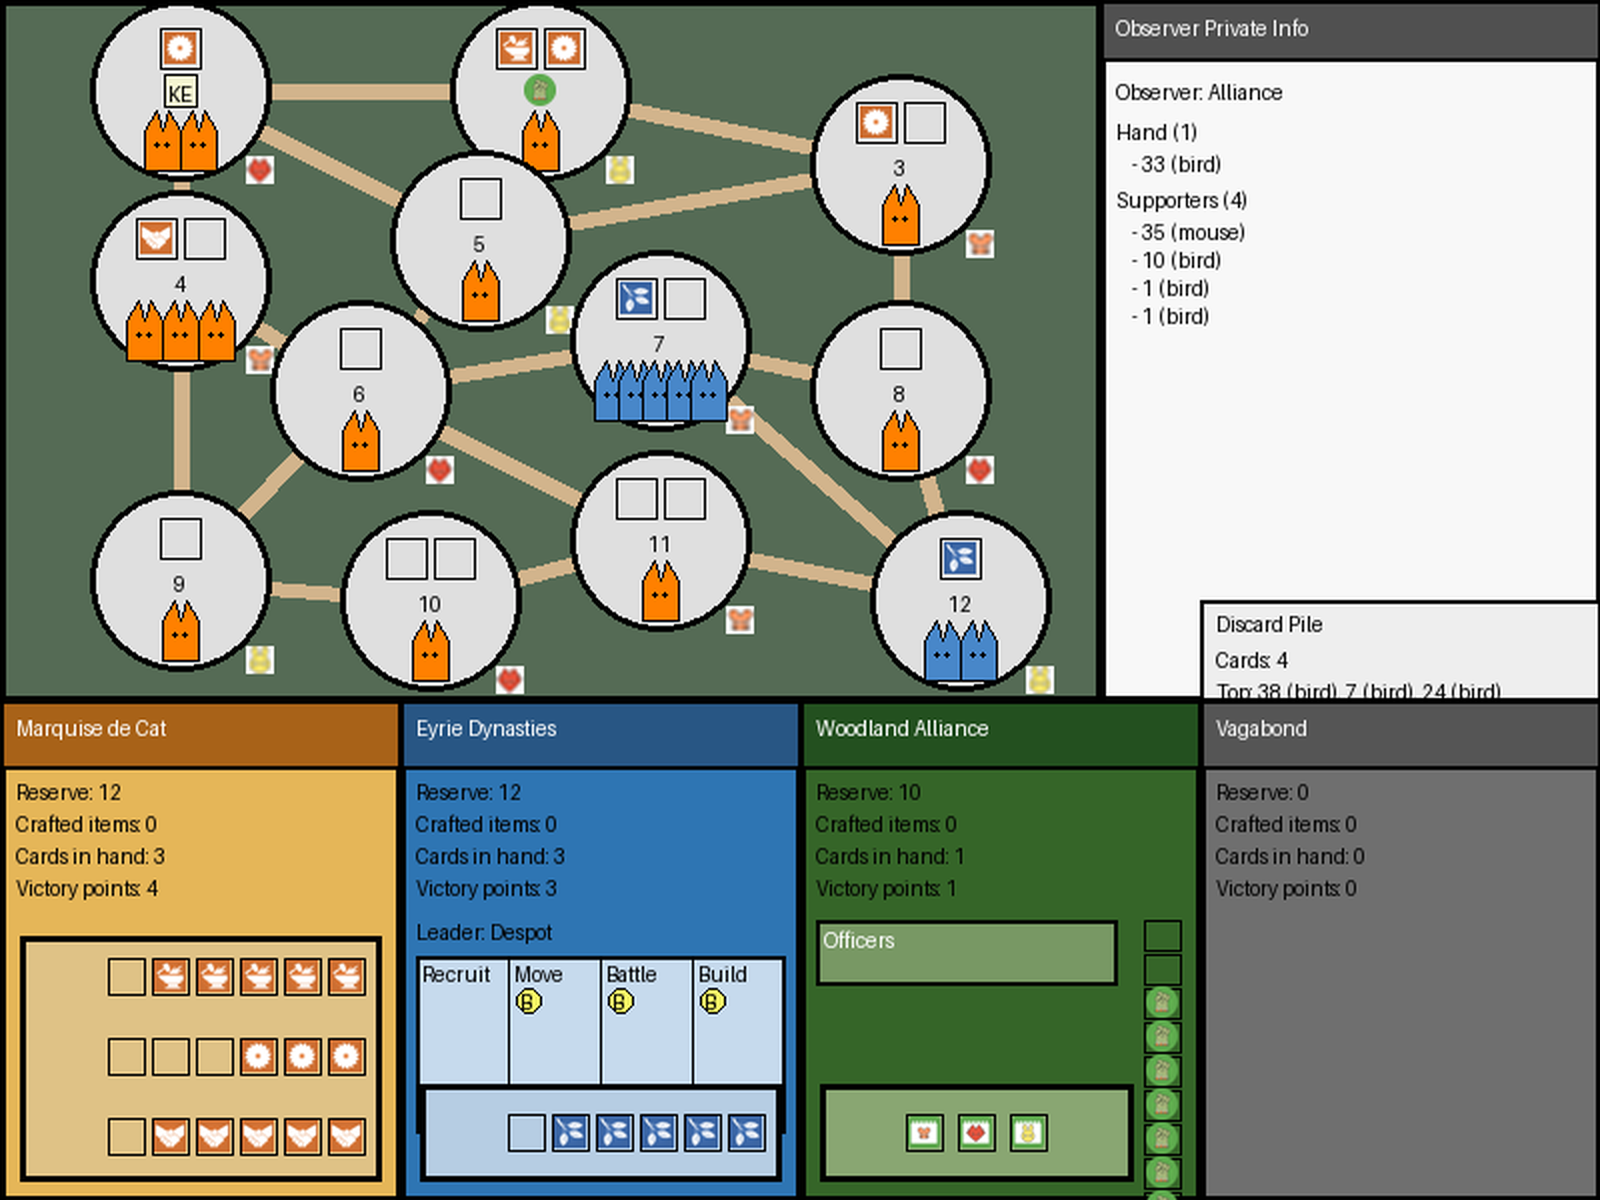
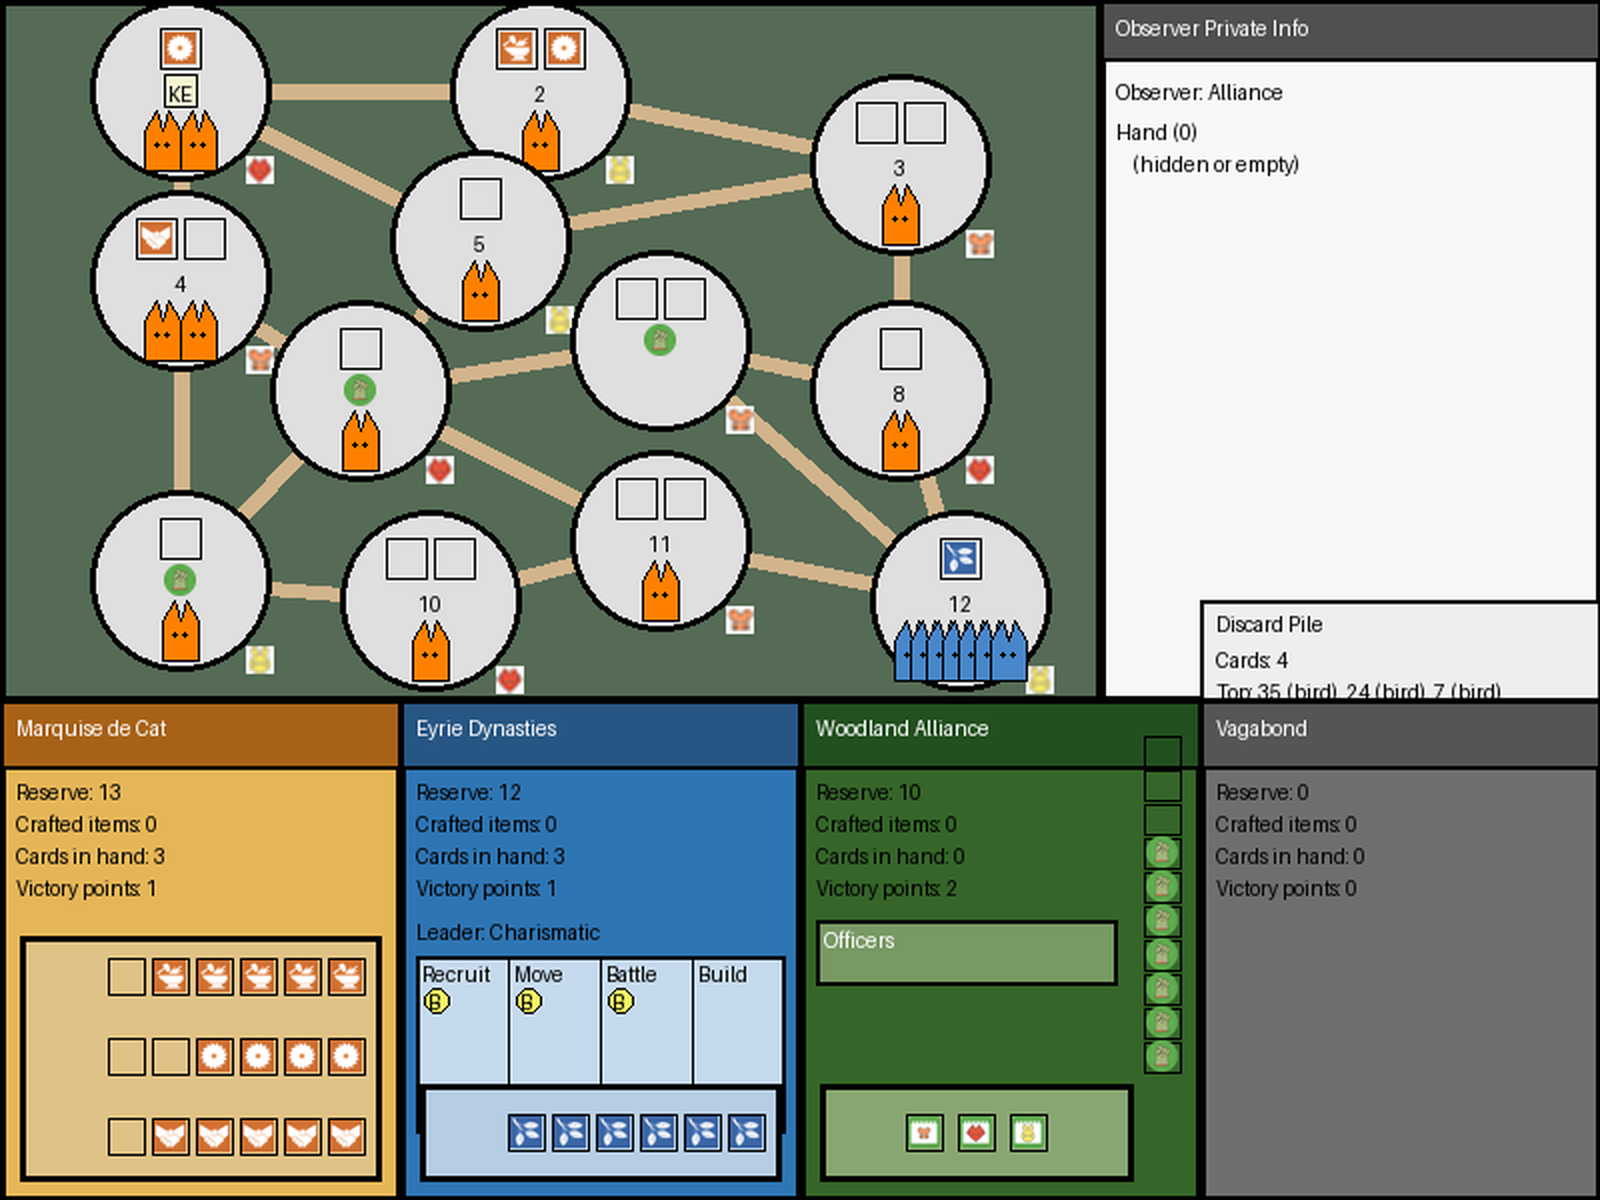
Game testing

diff --git a/game_tester.py b/game_tester.py
@@ -6,86 +6,22 @@ from root_engine.engine import RootEngine
 from root_engine.enums import Faction
 from state_renderer.render import state_renderer
 
-engine = RootEngine(seed=7, excluded_factions={Faction.VAGABOND})
+engine = RootEngine(seed=7, excluded_factions={Faction.VAGABOND}, marquise_ai_enabled=True,eyrie_ai_enabled=True)
 render = state_renderer()
 
 marquise_observation = engine.get_observation(Faction.MARQUISE)
 render.render_board(marquise_observation, "game_state.png")
 print(engine.get_valid_actions())
+print(engine.get_state().alliance.supporters)
 
-actions = [0, 1, 1, 1, 0, 0, 0, 0, 0, 0, 0, 0, 0, 0, 0, 1, 1, 0, 0, 0, 0, 1, 1, -1, 0, 0, 0, 2, 0, 0, 5, 0, 0, 0, 0, 0]
+actions = [5,4,2,0,0]
 r = True
 for i in range(len(actions)):
     valid_actions = engine.get_valid_actions()
-    print(len(valid_actions))
     engine.apply_action(valid_actions[actions[i]])
     if r:
         obs = engine.get_observation(Faction.ALLIANCE)
         render.render_board(obs, "game_state.png")
     print("Current Faction: ", engine.get_state().turn.current_faction, "Current Phase: ", engine.get_state().turn.phase)
-    if i == 30:
-        engine._state.alliance.supporters.append(1)
-        engine._state.alliance.supporters.append(1)
     print(engine.get_valid_actions())
 
-
-def _state_key(current_engine: RootEngine) -> str:
-    """Create a canonical, hashable representation of full engine state."""
-
-    return json.dumps(current_engine.to_dict(), sort_keys=True)
-
-
-def exec_alliance_end_state_search(current_engine: RootEngine) -> list:
-    """Find all unique reachable end states for the current Alliance turn."""
-
-    start_state = current_engine.get_observation(Faction.ALLIANCE)
-    start_faction = start_state.current_faction
-
-    if start_faction != Faction.ALLIANCE:
-        raise ValueError("Search must start on the Alliance turn")
-
-    end_states = []
-    seen_non_terminal = set()
-    seen_terminal = set()
-
-    def search(engine_node: RootEngine) -> None:
-        state = engine_node.get_observation(Faction.ALLIANCE)
-
-        if state.current_faction != start_faction:
-            terminal_key = _state_key(engine_node)
-            if terminal_key not in seen_terminal:
-                seen_terminal.add(terminal_key)
-                end_states.append(state)
-            return
-
-        node_key = _state_key(engine_node)
-        if node_key in seen_non_terminal:
-            return
-        seen_non_terminal.add(node_key)
-
-        actions = engine_node.get_valid_actions()
-        if not actions:
-            terminal_key = _state_key(engine_node)
-            if terminal_key not in seen_terminal:
-                seen_terminal.add(terminal_key)
-                end_states.append(state)
-            return
-
-        for action in actions:
-            next_engine = engine_node.clone()
-            next_engine.apply_action(action)
-            search(next_engine)
-
-    search(current_engine.clone())
-
-    print(f"Found {len(end_states)} unique Alliance turn end states")
-
-    if end_states:
-        render.render_board(end_states[0], "game_state.png")
-    else:
-        render.render_board(start_state, "game_state.png")
-
-    return end_states
-
-
-exec_alliance_end_state_search(engine)

diff --git a/main.py b/main.py
@@ -58,3 +58,7 @@ class Node:
             node.N += 1
             node = node.parent
 
+
+base = engine = RootEngine(seed=7, excluded_factions={Faction.VAGABOND}, marquise_ai_enabled=True,eyrie_ai_enabled=True)
+for i in range(5000):
+    pass
